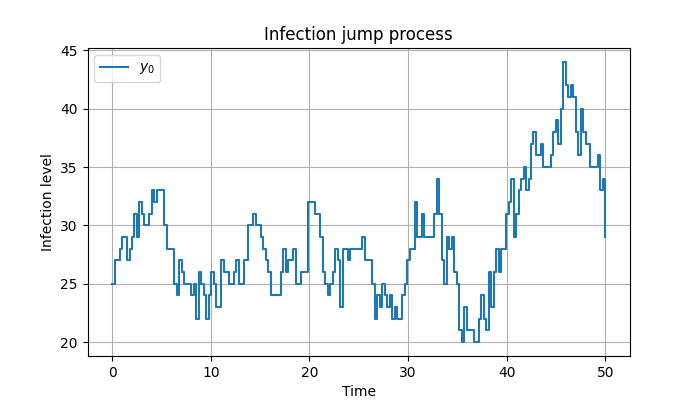
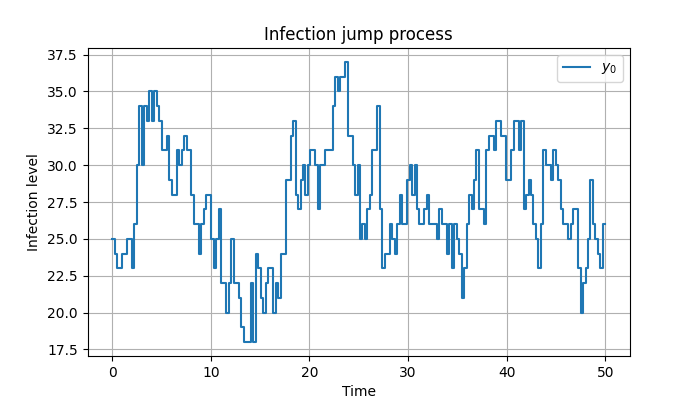
co-evoluation model modified with infection propensities and parametrized model function

diff --git a/co_evolution_modified.py b/co_evolution_modified.py
@@ -1,0 +1,117 @@
+import numpy as np
+import matplotlib.pyplot as plt
+from typing import Callable
+# !/usr/bin/env python3
+# -*- coding: utf-8 -*-
+"""
+Created on Sun Feb  1 18:47:31 2026
+
+@author: jschlieffen
+"""
+
+# !/usr/bin/env python3
+# -*- coding: utf-8 -*-
+"""
+Created on Fri Jan 30 16:13:54 2026
+
+@author: jschlieffen
+"""
+
+# =============================================================================
+# TODO: make V and W params.
+# =============================================================================
+
+
+class opinion_dynamics:
+    
+    INF_RATE_MAX = 0.35
+    INF_RATE_MIN = 0.0225
+    INF_RATE_MAX_PLUS_MIN = INF_RATE_MAX + INF_RATE_MIN
+    INF_RATE_MAX_MINUS_MIN = INF_RATE_MAX - INF_RATE_MIN
+    REC_RATE = 0.1
+
+    def __init__(self, num_grid_points: int, max_t: int, initial_opinions: np.ndarray, noise_strength: float, N:int,
+                 interaction_distance: float, y0: np.ndarray, stochiomatric_vectors: np.ndarray, grad_V: Callable):
+        self.t = np.linspace(0, max_t, num_grid_points)
+        self.dt = max_t/num_grid_points
+        
+        self.opinions_curr = initial_opinions.copy()
+        self.opinion_array = np.zeros((num_grid_points, len(initial_opinions)), dtype=float)
+        self.opinion_array[0] = initial_opinions.copy()
+        
+        self.infection_curr = y0.copy()
+        self.infection_array = np.zeros((num_grid_points, 3), dtype=float)
+        self.infection_array[0] = y0.copy()
+        self.nu = np.array(stochiomatric_vectors)
+        
+        self.sigma = noise_strength
+        self.N = N
+        self.d = interaction_distance
+        self.grad_V = grad_V
+
+    def algo(self):
+        for i in range(1, len(self.t)):
+            # Updating the Infection numbers
+            self.update_infected()
+            self.infection_array[i] = self.infection_curr.copy()
+            # Apply grad_V to each agent with current infected numbers
+            drift_V = self.grad_V(self.opinions_curr, self.infection_curr[1]/self.N)
+            self.opinions_curr += -drift_V * self.dt
+            self.opinion_array[i] = self.opinions_curr.copy()
+
+    def infection_propensity(self):
+        # TODO: Using the mean of opinion is really a band-aid solution, combinatorial assumption for Gillespie 
+        # is that the agents are identical s.t. the choice from susceptible/infected for reaction is simple
+        # when the agents' opinion affected the infection rate, the formula for propensity does not hold 
+        propensity = (self.INF_RATE_MAX_PLUS_MIN - self.INF_RATE_MAX_MINUS_MIN * np.tanh(2 * self.opinions_curr.mean())) / 2
+        return propensity * self.infection_curr[0] * self.infection_curr[1] / self.N
+    
+    def recovery_propensity(self):
+        return self.REC_RATE * self.infection_curr[1]
+
+    def update_infected(self):
+        # Tau-leaping algorithm (variant of Gillepsie for fixed delta t)
+        inf_jumps = np.random.poisson(self.infection_propensity() * self.dt)
+        rec_jumps = np.random.poisson(self.recovery_propensity() * self.dt)
+        self.infection_curr += inf_jumps * self.nu[0]
+        self.infection_curr += rec_jumps * self.nu[1]
+        
+
+    def opinion_history(self):
+        return self.opinion_array
+
+    def infection_history(self):
+        return self.infection_array
+
+def main():
+    # Parameters
+    N = 10000
+    initial_opinions = np.random.uniform(-1, 1, size=N)
+    grad_V = np.vectorize(lambda opinion, infected: infected * opinion**2 / 100)
+    model = opinion_dynamics(
+        num_grid_points=100,
+        max_t=100,
+        initial_opinions=initial_opinions,
+        noise_strength=0,
+        N=N,
+        interaction_distance=0,
+        y0=np.array([9550, 50, 0]),
+        stochiomatric_vectors=np.array([[-1, 1, 0], [0, -1, 1]]),
+        grad_V=grad_V
+    )
+    model.algo()
+    plt.hist(model.opinion_history()[0], bins=5)
+    plt.savefig('plots/other/initial_opinions.png')
+    plt.close()
+    plt.hist(model.opinion_history()[-1], bins=5)
+    plt.savefig('plots/other/final_opinions.png')
+    plt.close()
+    plt.plot(model.t, model.infection_history()[:, 0], label='susceptible')
+    plt.plot(model.t, model.infection_history()[:, 1], label='infected')
+    plt.plot(model.t, model.infection_history()[:, 2], label='recovered')
+    plt.legend()
+    plt.savefig('plots/other/infection_history.png')
+    plt.close()
+
+if __name__ == '__main__':
+    main()
